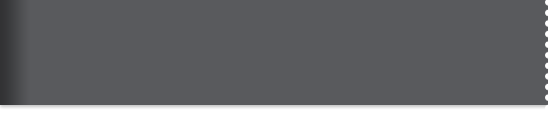
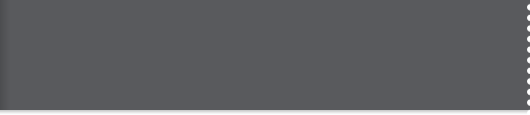
updating image assets and fixing spacing -

diff --git a/server/projects/desktop/css/style.css b/server/projects/desktop/css/style.css
@@ -284,7 +284,7 @@ textarea{
     margin-top: 20px;
     color:#FFF;
     width:535px;
-    height: 83px;
+    height: 73px;
     background: url(../images/ribbon.png) no-repeat top left;
     text-align:center;
     padding: 23px 0 20px;
@@ -315,7 +315,7 @@ textarea{
     margin-top: 8px;
     color:white;
     width:535px;
-    height: 66px;
+    height: 73px;
     background: url(../images/ribbon-bottom.png) no-repeat top left;
     background-size: 100% 100%;
     text-align:center;
